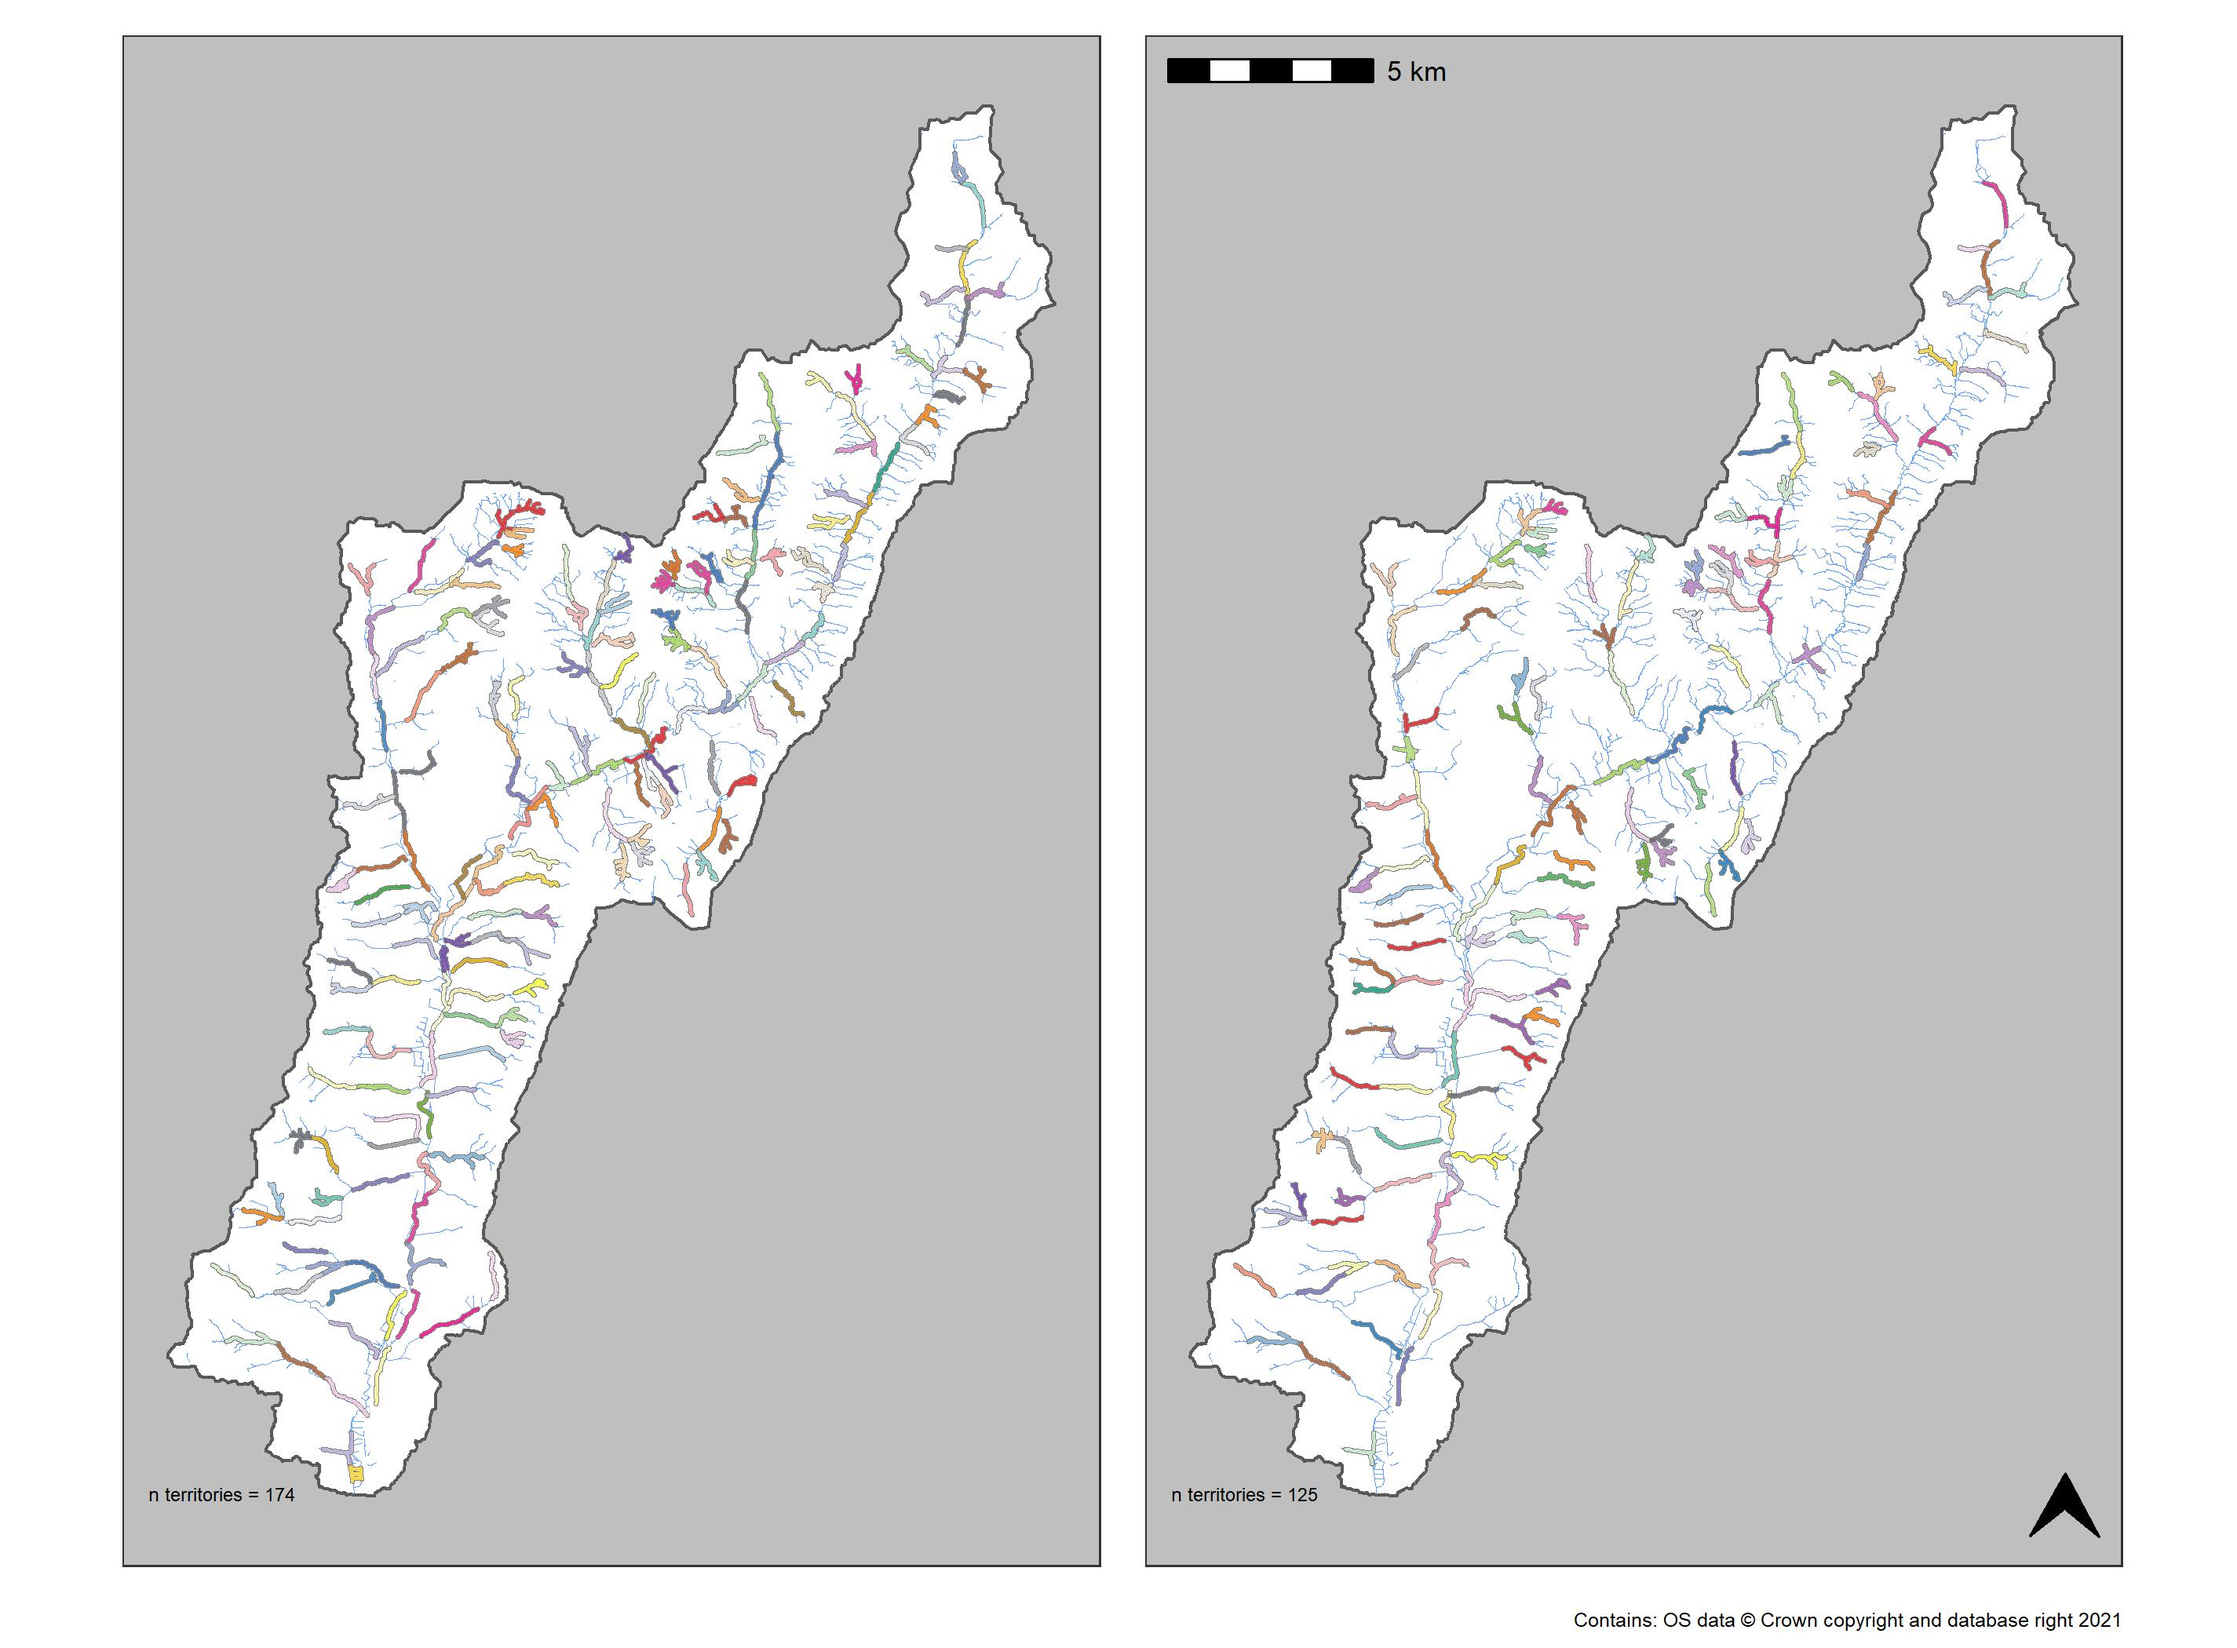
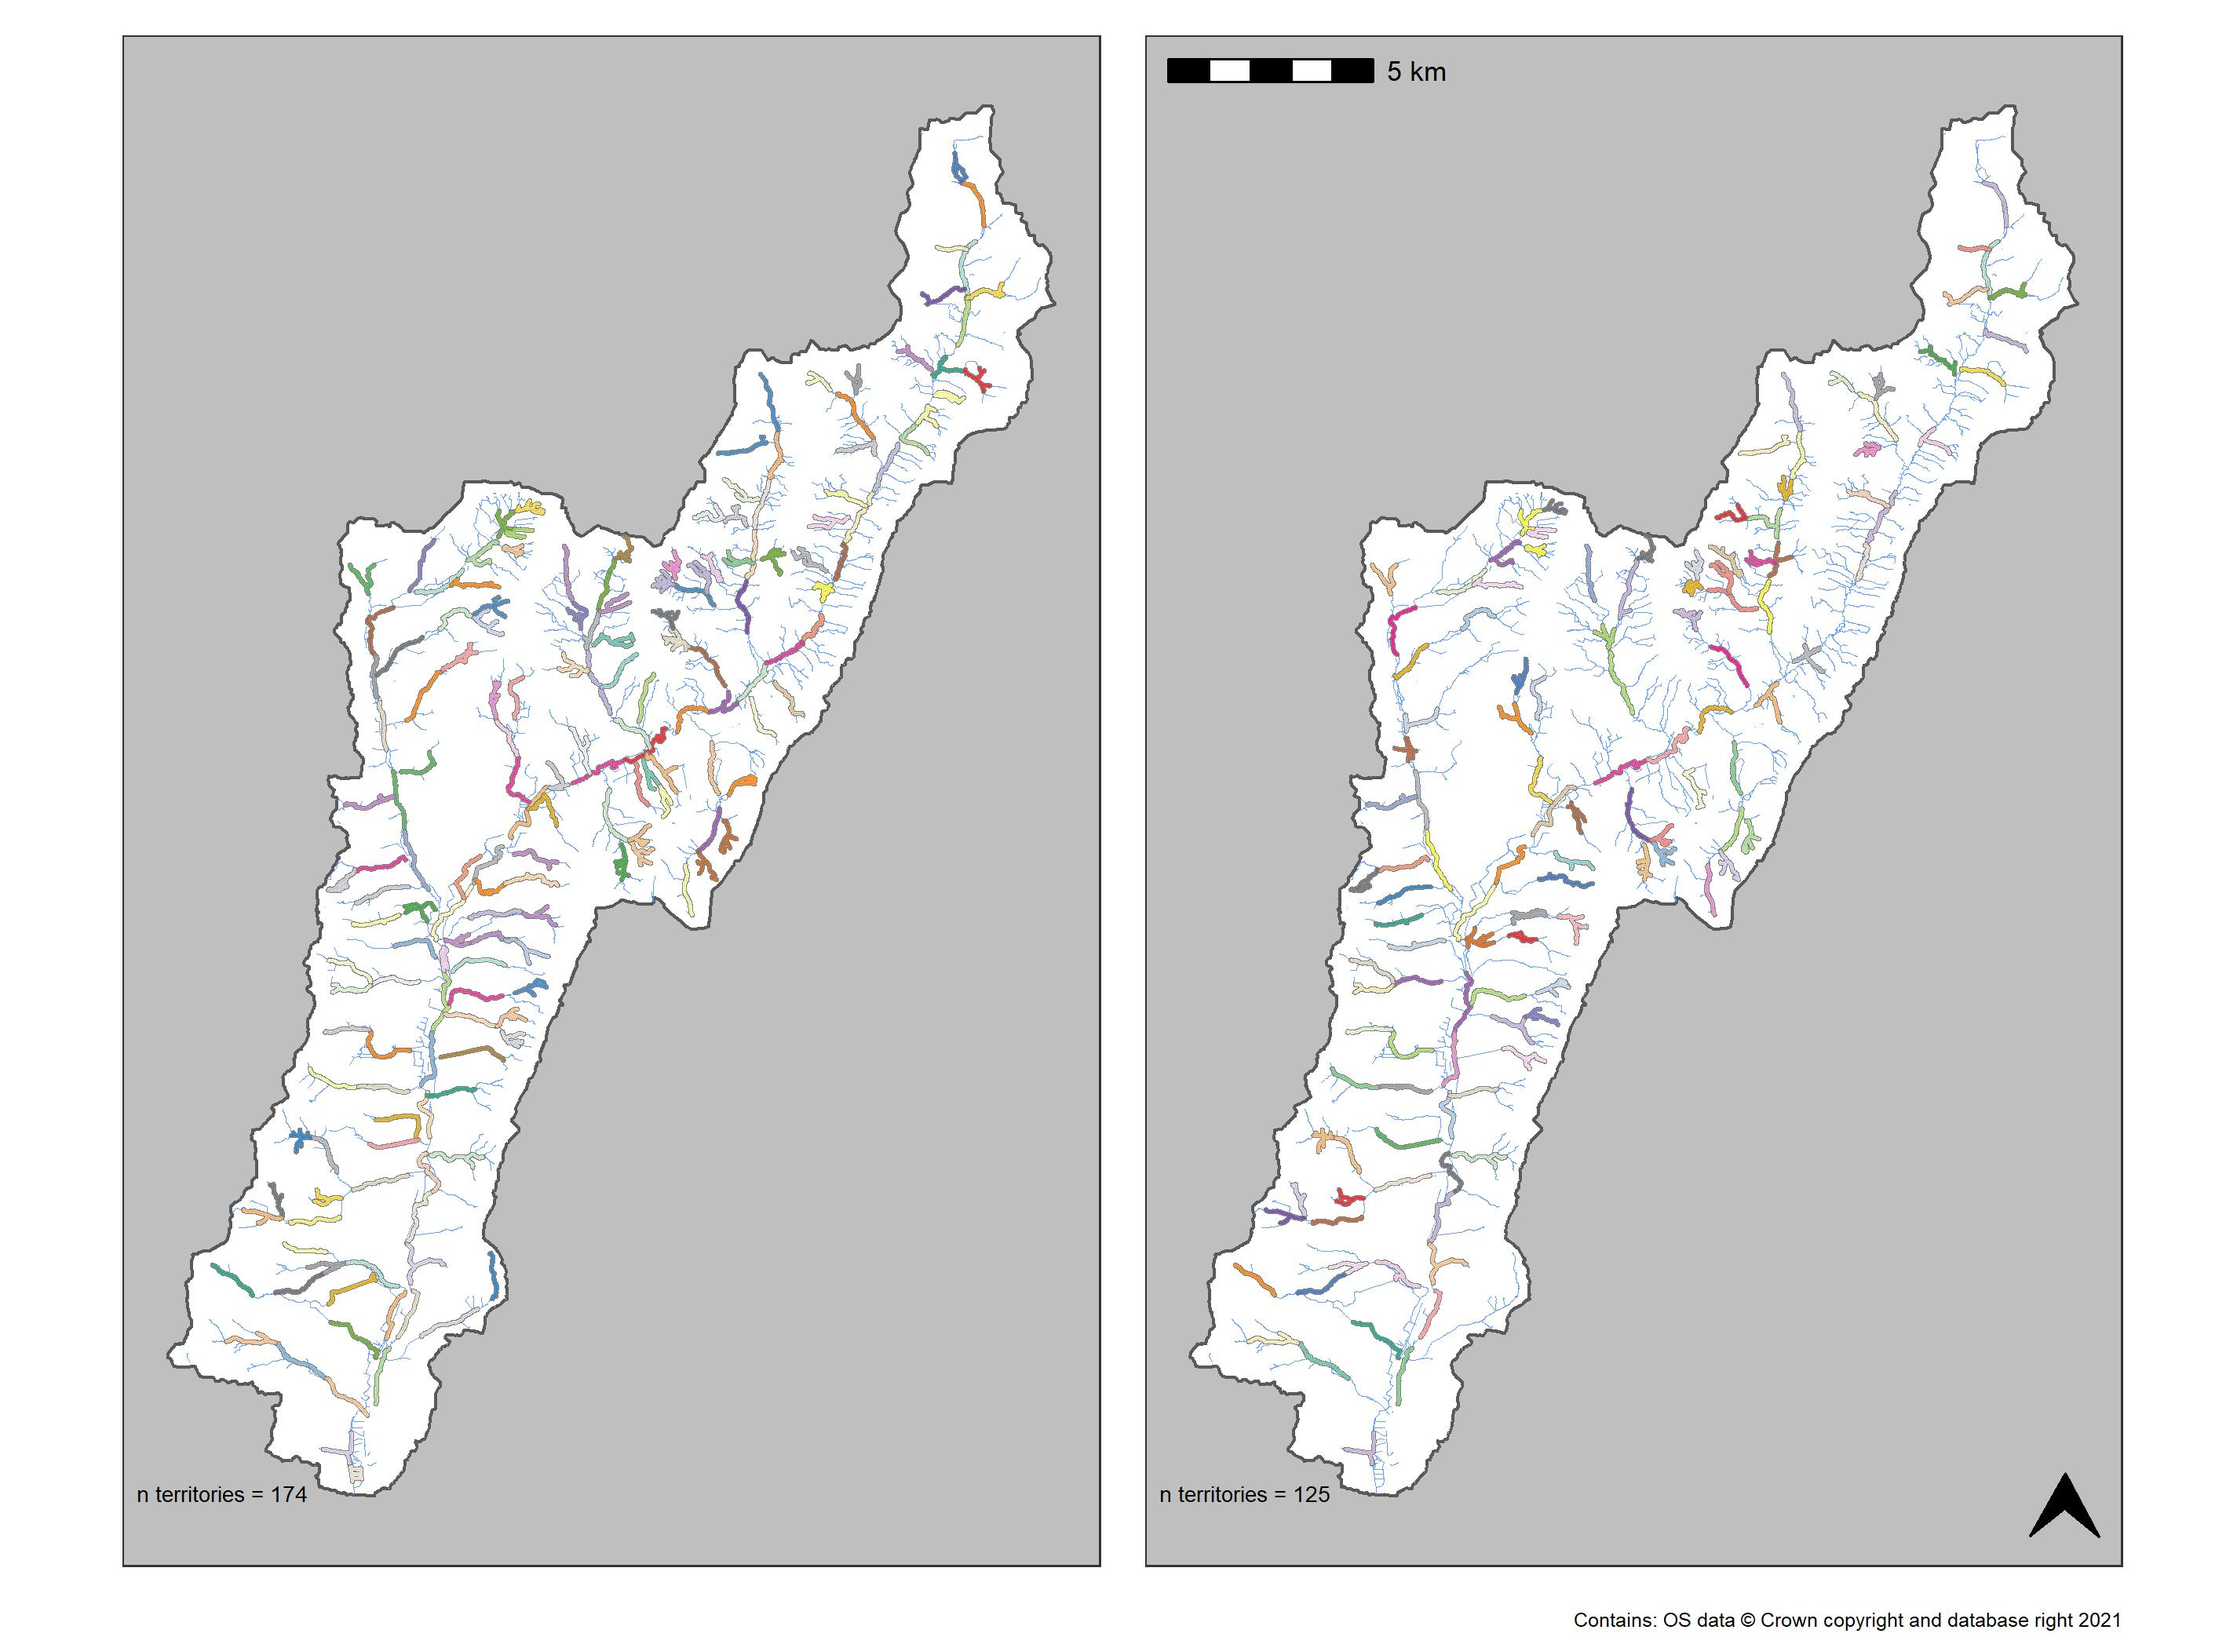
Re run the big simulation with adjusted territory area estimates for min and eman BFI. updated all figures. fixed bug with extent argument in territory capacity map creation.

diff --git a/README.md b/README.md
@@ -14,7 +14,7 @@ enables us to make estimates of the number of territories present in the
 catchment over time.
 
 ![River Otter Beaver Trial Forage
-Density](man/figures/Otter_comb_test1.gif)
+Density](R_Otter_workflow/1_Feed_Sign_Mapping/maps/AnimatedFeeding.gif)
 
 This examples shows a modelling approach to allow for the prediction of
 territory capacity within a catchment. Here we present two maps, one
@@ -23,7 +23,7 @@ habitat scenario. We then run simulations on this to estimate the
 possible range of territory capacity within the catchment.
 
 ![Territory Capacity
-Scenarios](R_Otter_workflow/2_Territory_simulations/plots/Lower_Upper_Capacity_maps.jpg)
+Scenarios](R_Otter_workflow/2_Territory_simulations/plots/Lower_Upper_Capacity_maps.png)
 
 Now that we know the territory capacity we can begin to model the
 population dynamics of the catchment. For the full code workflow check
@@ -35,7 +35,7 @@ based on this, given a range of territory capacities which are used to
 estimate the asymptote.
 
 ![Population Growth
-curve](R_Otter_workflow/3_Pop_expansion_predictions/plots/TerritoryPredictionc.png)
+curve](R_Otter_workflow/3_Pop_expansion_predictions/plots/TerritoryPredictiond.png)
 
 We can then dive into this a bit more and consider how the rate/absolute
 growth changes with time and population density…
